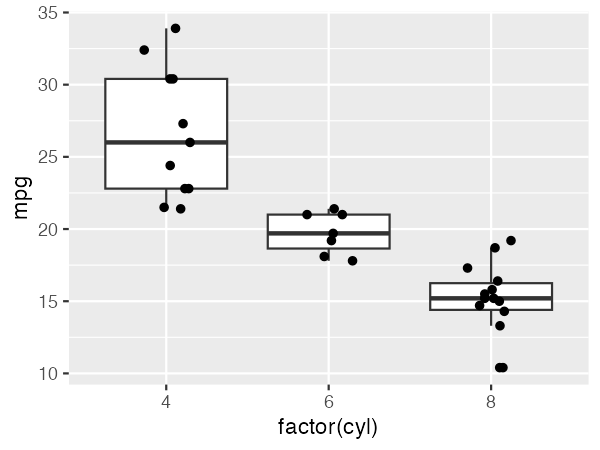
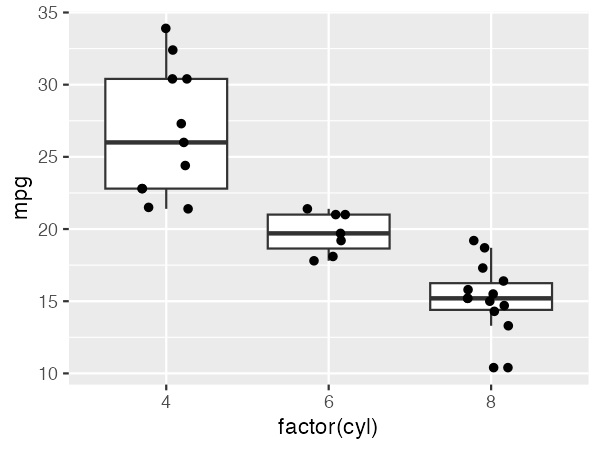
시각화와 평균비교 업데이트

diff --git a/docs/statistics/mean-test-with-r.html b/docs/statistics/mean-test-with-r.html
@@ -461,14 +461,14 @@ cohens_d(edu$sodium_pre, edu$sodium_post, paired = TRUE)</pre></div>
 <section class="panel" id="report">
 <div class="section-head"><span class="section-num">06</span><h2>프롬프트로 결과 한 번에 만들기</h2></div>
 <p>위에서는 검정을 하나씩 했다. 보고서에 넣을 것은 결국 기술통계 요약표, 자료의 도표, 검정 결과표와 검정 도표, 그리고 결과 문장이다. 이것을 코딩 에이전트에게 한 번에 시키는 프롬프트가 아래에 있다. 표는 APA 양식(표 번호는 굵게, 제목은 다음 줄에 기울임꼴, 가로선만 쓰고 세로선은 쓰지 않음)으로 받는다. 프롬프트의 요점은 <b>숫자를 손으로 적지 말고 코드로 계산한 값을 그대로 넣게</b> 하고, 내가 R 출력과 대조할 수 있게 <b>코드를 함께 받는</b> 것이다.</p>
-<div class="cb prompt"><span class="lang">프롬프트 · 요약표·도표·검정 도표·결과 문장을 한 번에</span><pre>scripts/04.report.R 을 만들어 실행해 줘. 데이터는 dataset/working/sodium_clean.rds 를 read_rds() 로 읽는다(group 은 교육군·대조군 factor, diff = 사전 − 사후).
-1. 표 1 · 기술통계: 집단별로 n, 사전 M (SD), 사후 M (SD), 변화 M (SD)를 한 표로 만든다. 소수 첫째 자리까지.
-2. 표 2 · 검정 결과: 단일표본(사전 vs 3000), 등분산 검정(F), 독립표본(사후, 등분산 검정 결과에 따라 Student 또는 Welch), 대응표본(교육군 사전 vs 사후)을 행으로 두고 t(또는 F), df, p, 95% 신뢰구간, 효과크기(d, g, dz)를 열로 둔다. p 는 소수 셋째 자리, .001 보다 작으면 "&lt; .001".
+<div class="cb prompt"><span class="lang">프롬프트 · 요약표·도표·검정 도표·결과 문장을 한 번에</span><pre>scripts/03.ttest.R 에 이어서, 보고서에 넣을 표와 그림을 만드는 코드를 써서 실행해 줘. 데이터는 지금까지 쓴 d(데이터 준비 자료에서 읽고 다듬은 48명, group 은 교육군·대조군 factor, diff = 사전 − 사후)를 그대로 쓰고, 검정은 앞에서 만든 res1, vt, res2, res3 를 다시 쓴다. 데이터를 새로 읽지 않는다.
+1. 표 1 · 기술통계: 집단별로 n, 사전 M (SD), 사후 M (SD), 변화 M (SD)를 한 표로 만든다. 평균은 소수 첫째 자리, 표준편차는 소수 둘째 자리까지(표준편차는 평균보다 한 자리 더 적는다). 1,000 이상의 숫자에는 세 자리마다 쉼표를 넣는다(예: 3,194.6). R 의 검정 출력에는 쉼표가 없으므로 표를 만들 때 format(big.mark = ",") 이나 scales::comma() 로 넣는다.
+2. 표 2 · 검정 결과: 단일표본(사전 vs 3000), 등분산 검정(F), 독립표본(사후, 등분산 검정 결과에 따라 Student 또는 Welch), 대응표본(교육군 사전 vs 사후)을 행으로 두고 t(또는 F), df, p, 95% 신뢰구간, 효과크기(d, g, dz)를 열로 둔다. p 는 소수 셋째 자리, .001 보다 작으면 "&lt; .001". 신뢰구간처럼 1,000 이 넘는 값에도 세 자리 쉼표를 넣는다.
 3. 두 표는 APA 양식으로 Markdown 파일 output/tables.md 에 저장한다: "표 1"은 굵게, 제목은 다음 줄에 기울임꼴, 표 아래에 "주." 로 단위(mg/일)와 효과크기의 종류를 적는다.
 4. 그림 1: 집단별 사후 섭취량을 상자그림 위에 관측값 점을 겹쳐 그리고 평균을 표시한다. 격자 없는 흰 배경(theme_classic), 축 제목에 단위. output/fig1_box.png, 5×4 인치, 300 dpi.
 5. 그림 2: 독립표본 t 검정의 영가설 아래 t 분포를 그리고, 양측 5% 기각역과 관측한 t, p-value 에 해당하는 넓이를 색으로 구분해 표시한다. 제목에 p-value 를 적는다. output/fig2_ttest.png, 6×4 인치, 300 dpi.
-6. 독립표본 검정의 결과 문장을 APA 형식으로 쓴다: 집단별 M 과 SD, t(df), p, 평균 차이와 95% CI, 효과크기와 그 이름.
-- 모든 숫자는 코드로 계산한 값을 넣고 손으로 적지 않는다. 표의 숫자가 R 출력과 맞는지 내가 대조할 수 있게 검정 결과 객체(res1, vt, res2, res3)를 출력한다.
+6. 독립표본 검정의 결과 문장을 APA 형식으로 쓴다: 집단별 M 과 SD(자릿수와 쉼표는 표 1과 같게), t(df), p, 평균 차이와 95% CI, 효과크기와 그 이름.
+- 모든 숫자는 코드로 계산한 값을 넣고 손으로 적지 않는다. 표의 숫자가 R 출력과 맞는지 내가 대조할 수 있게 res1, vt, res2, res3 를 다시 출력한다.
 - 한글 글꼴은 데이터 준비 자료의 글꼴 설정을 따른다.</pre><button type="button" class="copy">복사</button></div>
 <h3>예: 이 프롬프트로 받게 될 결과</h3>
 <p>아래는 같은 요구를 R로 직접 만들어 본 것이다. 에이전트가 만든 결과는 이와 같아야 한다. 숫자는 위 절들의 R 출력과 같고, 글꼴과 세부 모양은 환경에 따라 조금 다를 수 있다.</p>
@@ -477,17 +477,17 @@ cohens_d(edu$sodium_pre, edu$sodium_post, paired = TRUE)</pre></div>
 <caption><b>표 1</b><br><i>집단별 교육 전·후 나트륨 섭취량의 기술통계</i></caption>
 <thead><tr><th>집단</th><th>n</th><th>사전 M (SD)</th><th>사후 M (SD)</th><th>변화 M (SD)</th></tr></thead>
 <tbody>
-<tr><td>교육군</td><td>24</td><td>3194.6 (690.4)</td><td>2901.3 (534.6)</td><td>293.3 (443.7)</td></tr>
-<tr><td>대조군</td><td>24</td><td>3254.6 (635.9)</td><td>3300.4 (752.7)</td><td>−45.8 (541.5)</td></tr>
+<tr><td>교육군</td><td>24</td><td>3,194.6 (690.41)</td><td>2,901.2 (534.56)</td><td>293.3 (443.69)</td></tr>
+<tr><td>대조군</td><td>24</td><td>3,254.6 (635.89)</td><td>3,300.4 (752.74)</td><td>−45.8 (541.50)</td></tr>
 </tbody></table>
-<p class="apa-note"><i>주.</i> 단위는 mg/일. 변화 = 사전 − 사후.</p>
+<p class="apa-note"><i>주.</i> 단위는 mg/일. 변화 = 사전 − 사후. 평균은 소수 첫째 자리, 표준편차는 소수 둘째 자리. 1,000 이상은 세 자리마다 쉼표. 교육군 사후 평균은 정확히 2,901.25인데, R의 <code>round()</code>와 <code>sprintf()</code>는 딱 가운데 값을 짝수 쪽으로 반올림하므로 2,901.2가 된다(실험판은 2901.3으로 보인다).</p>
 </div>
 <div class="scroll">
 <table class="apa">
 <caption><b>표 2</b><br><i>나트륨 섭취량에 대한 가설검정 결과</i></caption>
 <thead><tr><th>검정</th><th>비교</th><th>통계량</th><th>df</th><th>p</th><th>95% CI</th><th>효과크기</th></tr></thead>
 <tbody>
-<tr><td>단일표본 t</td><td>사전 vs 3000</td><td>t = 2.37</td><td>47</td><td>.022</td><td>[3033.7, 3415.4]</td><td>d = 0.34</td></tr>
+<tr><td>단일표본 t</td><td>사전 vs 3000</td><td>t = 2.37</td><td>47</td><td>.022</td><td>[3,033.7, 3,415.4]</td><td>d = 0.34</td></tr>
 <tr><td>등분산 F</td><td>사후, 교육군 vs 대조군</td><td>F = 0.50</td><td>23, 23</td><td>.108</td><td>[0.22, 1.17]</td><td>—</td></tr>
 <tr><td>독립표본 t (Student)</td><td>사후, 교육군 − 대조군</td><td>t = −2.12</td><td>46</td><td>.040</td><td>[−778.5, −19.8]</td><td>g = −0.60</td></tr>
 <tr><td>대응표본 t</td><td>교육군 사전 − 사후</td><td>t = 3.24</td><td>23</td><td>.004</td><td>[106.0, 480.7]</td><td>d<sub>z</sub> = 0.66</td></tr>
@@ -498,15 +498,16 @@ cohens_d(edu$sodium_pre, edu$sodium_post, paired = TRUE)</pre></div>
 <figure class="shot"><img src="../assets/images/ttest/apa-box.png" width="750" height="600" loading="lazy" alt="교육군과 대조군의 사후 나트륨 섭취량 상자그림. 관측값 점이 겹쳐 있고 흰 마름모가 평균이다"><figcaption><b>그림 1.</b> 집단별 사후 나트륨 섭취량(mg/일). 상자는 사분위 범위, 가운데 선은 중앙값, 흰 마름모는 평균, 점은 관측값.</figcaption></figure>
 <figure class="shot"><img src="../assets/images/ttest/apa-ttest.png" width="900" height="600" loading="lazy" alt="자유도 46의 t 분포. 양쪽 꼬리의 기각역이 주황, 관측한 t보다 극단적인 영역이 파랑으로 칠해져 있고 관측한 t = -2.12에 세로선"><figcaption><b>그림 2.</b> 독립표본 t 검정(Student)의 영가설 아래 t 분포(df = 46). 주황은 양측 5% 기각역, 파랑은 p-value에 해당하는 넓이, 굵은 세로선이 관측한 t = −2.12.</figcaption></figure>
 </div>
-<div class="callout"><p><strong>결과 문장(APA 형식).</strong> 교육이 끝난 뒤 교육군(<i>M</i> = 2901.3, <i>SD</i> = 534.6)의 나트륨 섭취량은 대조군(<i>M</i> = 3300.4, <i>SD</i> = 752.7)보다 낮았다, <i>t</i>(46) = −2.12, <i>p</i> = .040, 평균 차이 = −399.2 mg/일, 95% CI [−778.5, −19.8], Hedges의 <i>g</i> = −0.60.</p></div>
+<div class="callout"><p><strong>결과 문장(APA 형식).</strong> 교육이 끝난 뒤 교육군(<i>M</i> = 2,901.2, <i>SD</i> = 534.56)의 나트륨 섭취량은 대조군(<i>M</i> = 3,300.4, <i>SD</i> = 752.74)보다 낮았다, <i>t</i>(46) = −2.12, <i>p</i> = .040, 평균 차이 = −399.2 mg/일, 95% CI [−778.5, −19.8], Hedges의 <i>g</i> = −0.60.</p></div>
 <div class="scroll"><table class="check">
 <thead><tr><th>확인할 것</th><th>어떻게 확인하나</th></tr></thead>
 <tbody>
-<tr><td>표의 숫자</td><td>표 2의 t, df, p, 신뢰구간이 03~05절의 R 출력과 같은가. 표 1의 M, SD 가 04절 첫 코드의 집단별 요약과 같은가</td></tr>
+<tr><td>표의 숫자</td><td>표 2의 t, df, p, 신뢰구간이 03~05절의 R 출력과 같은가(쉼표만 다르다). 표 1의 M, SD 가 04절 첫 코드의 집단별 요약과 같은가. 1,000 이 넘는 값에 쉼표가 들어갔는가</td></tr>
 <tr><td>어느 검정인가</td><td>독립표본 행이 등분산 검정의 결과대로 Student 인가. 에이전트가 Welch 를 골랐다면 vt 의 p-value 를 어떻게 읽었는지 묻는다</td></tr>
 <tr><td>그림 2</td><td>세로선이 t = −2.12 에 있고, 기각역의 경계가 ±2.01 인가. 파란 넓이가 양쪽 꼬리에 모두 있는가(양측 검정)</td></tr>
 <tr><td>결과 문장</td><td>M, SD, t(df), p, 차이와 CI, 효과크기의 이름이 모두 들어 있는가. "유의했다"만 있고 효과크기가 빠지지 않았는가</td></tr>
-<tr><td>손으로 적은 숫자</td><td>코드에서 표로 숫자가 흘러가는가. 코드에 2901.3 같은 값이 직접 적혀 있으면 손으로 넣은 것이다</td></tr>
+<tr><td>손으로 적은 숫자</td><td>코드에서 표로 숫자가 흘러가는가. 코드에 2901.2 같은 값이 직접 적혀 있으면 손으로 넣은 것이다</td></tr>
+<tr><td>데이터</td><td>데이터를 새로 읽지 않고 d 를 그대로 썼는가. 새로 읽었다면 group 의 factor 와 diff 가 데이터 준비 자료와 같은지 확인한다</td></tr>
 </tbody></table></div>
 </section>
 

diff --git a/docs/data-science/ggplot-visualization.html b/docs/data-science/ggplot-visualization.html
@@ -617,7 +617,7 @@ ggplot(
         <tr><td>geom</td><td><code>geom_*()</code></td><td><code>geom_point(size = 2)</code></td><td>레이어 하나 = geom 하나</td></tr>
         <tr><td>stat</td><td><code>stat_*()</code>, <code>geom_*(stat =)</code></td><td><code>stat_summary(fun = mean)</code></td><td>geom_bar는 stat_count, geom_smooth는 stat_smooth</td></tr>
         <tr><td>position</td><td><code>position_*()</code></td><td><code>geom_bar(position = "dodge")</code></td><td>겹침 조정: stack, dodge, jitter</td></tr>
-        <tr><td>scale</td><td><code>scale_&lt;aes&gt;_&lt;type&gt;()</code></td><td><code>scale_colour_brewer()</code>, <code>scale_y_log10()</code></td><td>limits는 범위 밖 데이터를 제거함</td></tr>
+        <tr><td>scale</td><td><code>scale_&lt;aes&gt;_&lt;type&gt;()</code></td><td><code>scale_colour_brewer()</code>, <code>scale_y_log10()</code>, <code>scale_y_continuous(labels = scales::label_comma())</code></td><td>limits는 범위 밖 데이터를 제거함. 눈금 글자는 <code>labels</code>로(아래 예)</td></tr>
         <tr><td>coord</td><td><code>coord_*()</code></td><td><code>coord_cartesian(ylim = c(10, 30))</code></td><td>데이터는 두고 화면만 확대</td></tr>
         <tr><td>facet</td><td><code>facet_wrap()</code>, <code>facet_grid()</code></td><td><code>facet_wrap(~ am)</code></td><td><code>scales = "free_y"</code>로 축 독립</td></tr>
         <tr><td>guide</td><td><code>guides()</code>, <code>guide_*()</code></td><td><code>guides(colour = guide_legend(nrow = 1))</code></td><td>범례·축의 모양</td></tr>
@@ -626,6 +626,42 @@ ggplot(
       </tbody>
     </table>
   </div>
+  <h3>축 눈금 글자 바꾸기: 세 자리 쉼표</h3>
+  <p>축은 척도(<code>scale_x_*()</code>, <code>scale_y_*()</code>)가 만든다. 눈금의 위치는 <code>breaks</code>, 눈금에 적는 글자는 <code>labels</code> 인수다. <code>labels</code>에는 글자 벡터를 직접 줄 수도 있지만, 보통은 숫자를 글자로 바꾸는 <b>함수</b>를 준다. ggplot2와 함께 설치되는 scales 패키지에 그런 함수가 모여 있다. 1,000이 넘는 값에 세 자리 쉼표를 넣는 <code>scales::label_comma()</code>가 대표적이다. 04절의 실업자 수 자료로 비교한다.</p>
+  <div class="gcards pair">
+    <figure class="gcard"><img src="../assets/images/ggplot/scale-default.png" width="600" height="450" loading="lazy" alt="미국 실업자 수 선그래프, y축 눈금이 4000, 8000, 12000"><figcaption><b>기본 눈금</b> y축 눈금이 4000, 8000, 12000으로 찍힌다. 자릿수가 커질수록 한눈에 읽기 어렵다.</figcaption><div class="cb r"><span class="lang">R</span><pre class="hlr">ggplot(
+  data = economics,
+  mapping = aes(
+    x = date,
+    y = unemploy
+  )
+) +
+  geom_line()</pre><button type="button" class="copy">복사</button></div></figure>
+    <figure class="gcard"><img src="../assets/images/ggplot/scale-comma.png" width="600" height="450" loading="lazy" alt="같은 선그래프, y축 눈금이 4,000, 8,000, 12,000이고 축 제목에 단위"><figcaption><b>labels = scales::label_comma()</b> 눈금이 4,000, 8,000, 12,000이 된다. 데이터는 그대로이고 글자만 바뀐다. <code>labs()</code>로 단위도 적었다.</figcaption><div class="cb r"><span class="lang">R</span><pre class="hlr">ggplot(
+  data = economics,
+  mapping = aes(
+    x = date,
+    y = unemploy
+  )
+) +
+  geom_line() +
+  scale_y_continuous(labels = scales::label_comma()) +
+  labs(y = "실업자 수 (천 명)")</pre><button type="button" class="copy">복사</button></div></figure>
+  </div>
+  <div class="tbl-wrap"><table class="ftbl">
+    <thead><tr><th>눈금 글자</th><th>labels =</th><th>예</th></tr></thead>
+    <tbody>
+      <tr><td>세 자리 쉼표</td><td><code>scales::label_comma()</code></td><td>12,000</td></tr>
+      <tr><td>백분율</td><td><code>scales::label_percent()</code></td><td>0.25 → 25%</td></tr>
+      <tr><td>통화</td><td><code>scales::label_currency(prefix = "₩")</code></td><td>₩12,000</td></tr>
+      <tr><td>단위 붙이기</td><td><code>scales::label_number(suffix = " mg")</code></td><td>3,000 mg (쉼표는 <code>big.mark = ","</code>)</td></tr>
+      <tr><td>날짜 형식</td><td><code>scales::label_date("%Y년")</code></td><td>1970년 (x축이 날짜일 때)</td></tr>
+    </tbody>
+  </table></div>
+  <div class="cb prompt"><span class="lang">프롬프트 · 눈금 글자를 에이전트에게</span><pre>04절의 실업자 수 선그래프(scripts/04_box_points.R 과 같은 폴더에 scripts/05_axis.R 로 만든다)에서 y축 눈금 글자를 고쳐 줘.
+- 1,000 이 넘는 값에 세 자리 쉼표를 넣는다. 데이터나 눈금 위치는 바꾸지 않고 글자만 바꾼다.
+- y축 제목에 단위(천 명)를 적는다.
+- 어느 구성요소(scale, labs)의 어느 인수를 썼는지 설명하고, 그림은 output/figures/05_axis_comma.png 로 저장한다.</pre><button type="button" class="copy">복사</button></div>
   <div class="split">
     <div class="ctl">
       <h3>레이어를 하나씩 쌓아 보기</h3>

diff --git a/ai-logs/tasks/2026/10/2026-10-26-04.md b/ai-logs/tasks/2026/10/2026-10-26-04.md
@@ -25,3 +25,22 @@
 ## 결정 및 후속 작업
 
 - 대응표본 코드의 정규성 확인 줄도 함께 지움(프롬프트와 코드가 어긋나지 않게). 사용자가 되살리길 원하면 복원.
+
+## 추가 (00:19 KST)
+
+- 사용자 요청: 06절 프롬프트에서 평균은 소수 첫째 자리, 표준편차는 둘째 자리로(표준편차는 평균보다 한 자리 더).
+- 프롬프트 1·6항, 표 1의 SD(690.41, 534.56, 443.69, 635.89, 752.74, 541.50), 표 아래 주, 결과 문장의 SD를 바꿈. `src/R/ttest_prompt_outputs.R`의 표 1 출력도 같은 형식으로.
+- R 실행에서 교육군 사후 평균 2901.25가 짝수 반올림으로 2901.2로 찍히는 것을 확인해, 예시 표·문장을 R 값으로 맞추고 주에 그 까닭(실험판은 2901.3)을 적음.
+- 검증: 스크립트 출력과 쪽의 표 1 일치, 헤드리스 Chrome 오류 0.
+
+## 추가 (00:20 KST)
+
+- 사용자 요청: 통합 프롬프트가 rds 를 새로 읽게 되어 있던 것을, 교안대로 기존 데이터셋을 그대로 쓰도록.
+- 06절 프롬프트 첫 줄을 "scripts/03.ttest.R 에 이어서 … 지금까지 쓴 d 와 res1, vt, res2, res3 를 그대로 쓰고 데이터를 새로 읽지 않는다"로 바꿈. 확인할 것 표에 "데이터를 새로 읽지 않았는가" 행 추가, 손으로 적은 숫자 예시를 2901.2로.
+- 검증: 쪽에 rds·read_rds 언급 없음, 헤드리스 Chrome 오류 0.
+
+## 추가 (00:22 KST)
+
+- 사용자 요청: 출력표에 세 자리 쉼표. R 결과에는 없으므로 요약표 생성 시 넣도록 지정.
+- 06절 프롬프트 1·2·6항에 쉼표 지시(format(big.mark = ",") 또는 scales::comma()) 추가. 예시 표 1·표 2(신뢰구간)·주·결과 문장에 쉼표 반영. 확인할 것 표에 쉼표 확인 추가. `src/R/ttest_prompt_outputs.R` 출력에 formatC(big.mark = ",") 적용.
+- 검증: 스크립트 출력과 쪽의 표 일치(3,194.6 (690.41), [3,033.7, 3,415.4] 등), 헤드리스 Chrome 오류 0.

diff --git a/ai-logs/tasks/2026/10/2026-10-26-05.md b/ai-logs/tasks/2026/10/2026-10-26-05.md
@@ -1,0 +1,28 @@
+# 2026-10-26-05 작업 기록
+
+- 시각: 00:24 KST
+- AI: Claude (Fable 5.1)
+- 상태: 완료
+
+## 사용자 요청
+
+> @docs/data-science/ggplot-visualization.html 에서 축 설정 설명시 콤마 단위 y 축 tick 라벨 변경하는 예시를 반영해줘.
+
+## AI 응답 요약
+
+05절 "구성요소를 ggplot에서 지정하는 방법"에 "축 눈금 글자 바꾸기: 세 자리 쉼표" 소절을 넣었다. 척도의 breaks·labels 설명, 실업자 수 자료의 기본 눈금과 scales::label_comma() 눈금을 나란히 비교하는 실제 R 그림 두 장, 자주 쓰는 labels 함수 표, 프롬프트를 실었다. 표의 scale 행에도 예와 메모를 더했다.
+
+## 변경 파일
+
+- `docs/data-science/ggplot-visualization.html`: 05절 소절, 표 scale 행
+- `src/R/ggplot_aes_geom_gallery.R`: scale-default, scale-comma 코드 추가
+- `docs/assets/images/ggplot/scale-default.png`, `scale-comma.png`: 생성
+
+## 검증
+
+- 갤러리 스크립트로 그림 생성, 카드 코드는 스크립트가 실행한 코드 그대로. scales 함수 표의 예(12,000 / 25% / ₩12,000 / 3,000 mg / 1970년)를 R에서 실행해 확인.
+- 헤드리스 Chrome: 그림 200 응답, 스크립트 오류 0, 카드 20개 렌더.
+
+## 결정 및 후속 작업
+
+- 없음

diff --git a/ai-logs/daily/2026/10/2026-10-26.md b/ai-logs/daily/2026/10/2026-10-26.md
@@ -8,3 +8,4 @@
 | [2026-10-26-02](../../../tasks/2026/10/2026-10-26-02.md) | 00:02 | Claude (Fable 5.1) | 평균검정 자료의 F 분포 소절을 펼침 항목으로 변경 | `docs/statistics/mean-test-with-r.html` | 완료 |
 | [2026-10-26-03](../../../tasks/2026/10/2026-10-26-03.md) | 00:11 | Claude (Fable 5.1) | 평균검정 자료에 검정별 프롬프트와 06절 통합 프롬프트·APA 예시 결과 추가 | `docs/statistics/mean-test-with-r.html`<br>`src/R/ttest_prompt_outputs.R` | 완료 |
 | [2026-10-26-04](../../../tasks/2026/10/2026-10-26-04.md) | 00:13 | Claude (Fable 5.1) | 평균검정 자료의 통합 프롬프트를 06절로 분리하고 이후 프롬프트의 정규성 확인 제거 | `docs/statistics/mean-test-with-r.html` | 완료 |
+| [2026-10-26-05](../../../tasks/2026/10/2026-10-26-05.md) | 00:24 | Claude (Fable 5.1) | ggplot 자료 05절에 y축 눈금 세 자리 쉼표 예시 추가 | `docs/data-science/ggplot-visualization.html`<br>`src/R/ggplot_aes_geom_gallery.R` | 완료 |
